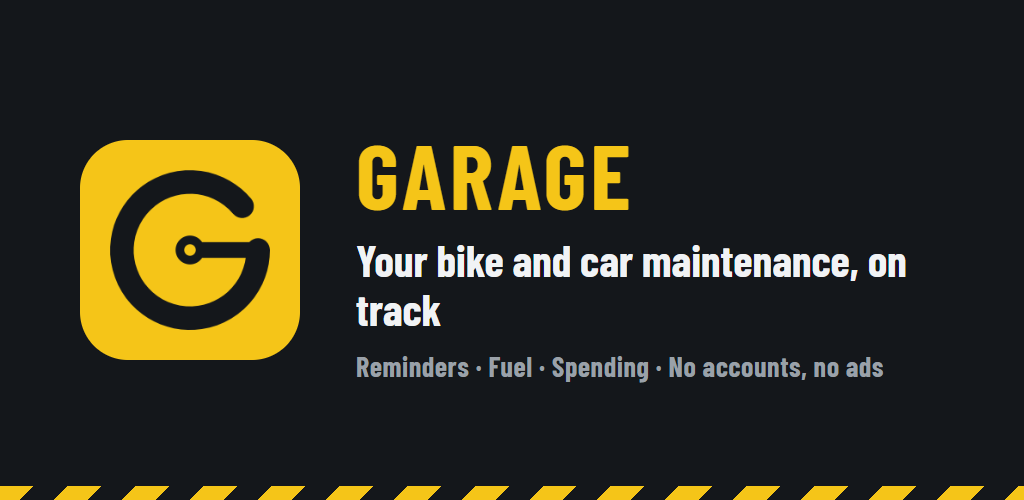
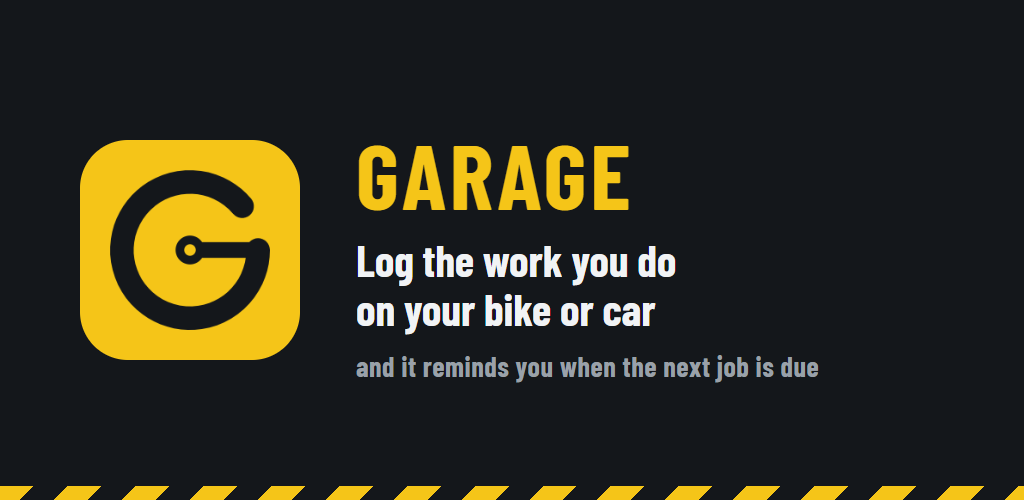
Textos de la ficha, la web y el README más naturales; "Opcional" a tamaño normal
- Descripciones de Google Play reescritas sin titulares con emoji ni frases de anuncio.
- README actualizado (estructura, Pro, Android, versiones) y en el mismo tono.
- Repostaje: el texto de ayuda de Litros e Importe con la letra normal, no con la cifra grande.

Changed region(s): [[0.3438, 0.48, 0.9062, 0.66], [0.3438, 0.69, 0.875, 0.78]]

diff --git a/docs/index.html b/docs/index.html
@@ -4,7 +4,7 @@
   <meta charset="utf-8" />
   <meta name="viewport" content="width=device-width, initial-scale=1" />
   <title>Garage</title>
-  <meta name="description" content="Garage: lleva el mantenimiento de tu moto y tu coche. Avisos, consumo y gastos, sin cuentas ni anuncios." />
+  <meta name="description" content="Garage: un cuaderno de mantenimiento para la moto o el coche que te avisa de lo siguiente que toca." />
   <link rel="icon" href="icon.png" />
   <link rel="stylesheet" href="style.css" />
 </head>
@@ -13,10 +13,10 @@
     <section class="hero">
       <img src="icon.png" alt="Logo de Garage" width="112" height="112" />
       <h1>Garage</h1>
-      <p>Lleva el mantenimiento de tu moto y tu coche: qué toca y cuándo, consumo y gastos.<br />
-        Sin cuentas, sin anuncios, tus datos solo en tu móvil.</p>
-      <p lang="en" class="sub">Keep track of your bike and car maintenance: what's due and when, fuel and
-        spending. No accounts, no ads, your data stays on your phone.</p>
+      <p>Un cuaderno de mantenimiento para la moto o el coche. Apuntas lo que le haces y te avisa de lo
+        siguiente que toca. No hace falta cuenta y los datos se quedan en tu móvil.</p>
+      <p lang="en" class="sub">A service log for your motorbike or car. Note down the work you do and it reminds
+        you when the next job is due. No account needed, and your data stays on your phone.</p>
     </section>
     <p class="links">
       <a href="privacy.html">Política de privacidad · Privacy policy</a>

diff --git a/src/views/FuelPage.vue b/src/views/FuelPage.vue
@@ -229,6 +229,12 @@ function leave(id: string, message: string) {
   font-size: 22px;
   font-weight: 700;
 }
+/* El texto de ayuda ("Opcional", "0,0") con la letra normal: la cifra grande solo para lo que se escribe. */
+.big-input :deep(input::placeholder) {
+  font-family: var(--g-font-body);
+  font-size: 16px;
+  font-weight: 400;
+}
 .flex {
   flex: 1;
 }

diff --git a/README.md b/README.md
@@ -1,100 +1,109 @@
-# 🏍 Garage
+# Garage
 
-App multiplataforma para llevar el mantenimiento de motos y vehículos personales.
+App para llevar el mantenimiento de motos y coches. Apuntas lo que le haces a cada vehículo (aceite, cadena,
+frenos, ITV…) y la app calcula cuándo toca lo siguiente, por kilómetros, por tiempo o por lo que llegue antes,
+y te avisa. También lleva los repostajes, el consumo y lo que te gastas.
 
-- **¿Cuándo le hice esto?** Historial de cada mantenimiento.
-- **¿A cuántos km toca ahora?** Motor de urgencias en km *y* en días.
-- **Offline-first.** Todo en SQLite local; la sync en la nube llega en la fase 0.3.
-- **España + motos.** ITV según tipo de vehículo, intervalos pensados para motos.
+Funciona sin conexión y sin cuenta: los datos se guardan en el dispositivo (SQLite). Está pensada para España
+(intervalos de ITV por tipo de vehículo, seguro e impuesto de circulación) y en español e inglés.
 
-**Stack:** Vue 3 + TypeScript · Ionic Vue · Capacitor · SQLite (`@capacitor-community/sqlite`, `jeep-sqlite` en web) · Pinia · date-fns · uuid v7 · Zod · Vitest.
+La versión gratuita cubre hasta dos vehículos; Garage Pro, un pago único en Google Play, añade la pestaña de
+gastos, vehículos sin límite, los temas de color y el widget.
+
+Stack: Vue 3 + TypeScript, Ionic Vue, Capacitor 8, SQLite (`@capacitor-community/sqlite`; `jeep-sqlite` en la
+web), Pinia, vue-i18n, date-fns, Zod, Vitest y Playwright.
 
 ## Empezar
 
 ```bash
-npm install        # copia también sql-wasm.wasm a public/assets (postinstall)
+npm install        # también copia sql-wasm.wasm a public/assets (postinstall)
 npm run dev        # http://localhost:5173
-npm test           # Vitest: motor de urgencias, ITV, formato y repositorio contra SQLite real
-npm run test:e2e   # Playwright: la app real manejada como un usuario (móvil y escritorio; usa tu Chrome)
+npm test           # Vitest: urgencias, ITV, formato, consumo y repositorio contra SQLite de verdad
+npm run test:e2e   # Playwright: la app manejada como un usuario, en móvil y escritorio (usa tu Chrome)
 npm run build      # vue-tsc + vite build
 ```
 
-En **Ajustes → Cargar datos de ejemplo** tienes 3 vehículos (CBR600RR, Scrambler y Corolla) para ver la app con datos.
+En **Ajustes → Cargar datos de ejemplo** hay tres vehículos (CBR600RR, Scrambler y Corolla) con historial y
+repostajes, para ver la app con datos. En desarrollo, la pantalla de Garage Pro tiene un botón que lo activa sin
+pagar.
 
 ### Android
 
-Requisitos: **Node ≥ 22** (CLI de Capacitor 8), Android Studio con el SDK y un **JDK 21** instalado.
-No hace falta que `JAVA_HOME` apunte a él: `android/gradle/gradle-daemon-jvm.properties` le dice a Gradle
-que busque un JDK 21 entre los instalados (así otros proyectos pueden seguir con el JDK que usen).
+Hace falta **Node ≥ 22** (CLI de Capacitor 8), Android Studio con el SDK y un **JDK 21**. No hace falta que
+`JAVA_HOME` apunte a él: `android/gradle/gradle-daemon-jvm.properties` le dice a Gradle que lo busque entre los
+JDK instalados, así otros proyectos pueden seguir con el suyo.
 
 ```bash
 npm run cap:sync          # compila la web y la copia a android/
 npx cap open android      # y ▶ en Android Studio (móvil por USB o emulador)
 ```
 
-Para generar un APK instalable de la versión actual: `npm run apk` → `releases/garage-<versión>-debug.apk`
-(de depuración: para tu móvil o para probadores).
+- `npm run apk` genera un APK de depuración en `releases/garage-<versión>-debug.apk`, para instalarlo en tu
+  móvil o pasárselo a quien vaya a probar.
+- `npm run aab` genera el paquete firmado para Google Play en `releases/garage-<versión>.aab`. Necesita la
+  clave de subida; los pasos de la publicación están en [store/PUBLICAR.md](store/PUBLICAR.md).
+- `npm run store:shots` vuelve a sacar las capturas de la ficha de la tienda.
 
-Para Google Play: `npm run aab` → `releases/garage-<versión>.aab`, firmado con la clave de subida (ver
-[store/PUBLICAR.md](store/PUBLICAR.md)). Las capturas de la ficha se regeneran con `npm run store:shots`.
+Con un APK de depuración se puede inspeccionar la app desde `chrome://inspect` en el Chrome del ordenador.
 
-Desde terminal: `npx cap run android` (compila, instala y abre en el móvil o emulador que elijas), o
-`cd android && ./gradlew assembleDebug` para generar `android/app/build/outputs/apk/debug/app-debug.apk`. Con un APK de depuración,
-`chrome://inspect` en el Chrome del ordenador permite inspeccionar la app.
-
-`android/` está versionada: lleva la configuración nativa que no regenera Capacitor
-(`<queries>` de la cámara en el manifiesto, icono de los avisos `ic_stat_garage`).
+`android/` está en el repositorio porque lleva cosas que Capacitor no regenera: el widget, los plugins de
+compra y del widget, la cámara en `<queries>`, el icono de los avisos y la firma de publicación.
 
 ## Estructura
 
 ```
 src/
-  domain/        Lógica pura, sin Vue ni BD (100 % testeable)
-    reminders.ts   Motor de urgencias: vencido / pronto / al día / sin historial
-    itv.ts         Intervalos de ITV en España por tipo de vehículo
-    tasks.ts       Catálogo de tareas e intervalos por defecto por tipo
-    schemas.ts     Validación de formularios con Zod
-    format.ts      Textos y formato es-ES ("1.150 km · Toca a 24.200 km…")
-  db/
-    sql.ts         Interfaz mínima de BD (nativo, web y tests la implementan)
-    migrations.ts  Esquema versionado
-    repository.ts  Acceso a datos (borrado lógico, transacciones)
-    capacitor.ts   Adaptador @capacitor-community/sqlite (+ jeep-sqlite en web)
-    demo.ts        Datos de ejemplo
-  stores/garage.ts Estado (Pinia) y urgencias derivadas
-  views/           Garage, Detalle, Registro rápido, Recordatorios, Plan, Ajustes
-  theme/           Estilo "Taller + Cuadro": 5 temas de color × claro/oscuro (palettes.css)
-tests/             Vitest (sql.js en memoria para el repositorio)
+  domain/          Lógica sin Vue ni base de datos (todo con tests)
+    reminders.ts     Qué toca: vencido / pronto / pospuesto / al día / sin historial
+    itv.ts           Intervalos de la ITV en España por tipo de vehículo
+    tasks.ts         Catálogo de tareas e intervalos por tipo de vehículo
+    fuel.ts          Repostajes y consumo de lleno a lleno
+    stats.ts         Gastos por mes y año, coste por km
+    alerts.ts        Plan de avisos locales
+    format.ts        Textos, cifras y fechas en el idioma de la app
+  db/              Esquema con migraciones, repositorio y adaptadores de SQLite
+  i18n/            Textos en español (es.ts) e inglés (en.ts)
+  lib/             Plataforma: avisos, compra de Garage Pro, widget, archivos
+  stores/garage.ts Estado (Pinia)
+  views/           Pantallas
+  theme/           Los 5 temas de color, en claro y oscuro
+android/           Proyecto nativo (widget y compras en app/src/main/java)
+docs/              Web y política de privacidad (GitHub Pages)
+store/             Ficha de Google Play, capturas y guía de publicación
+tests/  e2e/       Vitest y Playwright
 ```
 
 ## Decisiones
 
 | Decisión | Por qué |
 |---|---|
-| UUID v7 generados en cliente | Offline y distribuido; ordenables por tiempo |
-| Borrado lógico (`deleted_at`) | Nunca se pierden datos; necesario para la sync |
-| Dinero en céntimos (`INTEGER`) + `currency` | Sin errores de coma flotante |
-| Km actuales = lectura máxima | Cada registro con km añade una lectura en `odometer_readings` |
-| "Pronto" = 20 % del intervalo (máx. 1.000 km / 30 días) | Engrase cada 500 km avisa a 100 km; aceite cada 6.000 km, a 1.000 km |
-| Vencido siempre en rojo | En el mockup un +50 km salía naranja; aquí cualquier vencido es rojo |
-| ITV sin historial en vehículo antiguo = "sin historial" | No dar por vencida una ITV que seguramente está pasada |
-| `sql.js` fijado a **1.11.0** | Debe coincidir con la versión que `jeep-sqlite@2.8.0` lleva empaquetada; si no, el `.wasm` no carga |
-| Ionic en modo `ios` en todas las plataformas | Estética Sesame homogénea |
-| Temas = paletas de tokens (`data-palette` en `<html>`) | Cambiar de tema no toca componentes; cada tema define claro y oscuro |
-| Acento de relleno ≠ acento de texto | Amarillo, cian o rosa no se leen sobre blanco: en claro, el texto usa una versión más oscura |
-| Cuadro de instrumentos siempre oscuro | En modo claro sigue siendo un panel incrustado: el acento luce igual |
-| Fuentes locales (`@fontsource`) | Offline-first: sin depender de Google Fonts |
+| UUID v7 generados en el dispositivo | Funciona sin conexión y se ordenan por fecha |
+| Borrado lógico (`deleted_at`) | Al importar una copia, lo borrado sigue borrado |
+| Dinero en céntimos y litros en centilitros, enteros | Sin errores de coma flotante |
+| Km actuales = la lectura más alta | Cada registro o repostaje con km añade una lectura a `odometer_readings` |
+| "Pronto" = el último 20 % del intervalo (como mucho 1.000 km / 30 días) | El engrase cada 500 km avisa a los 100; el aceite cada 6.000, a los 1.000 |
+| ITV sin historial en un vehículo antiguo = "sin historial" | Mejor no dar por vencida una ITV que seguramente está pasada |
+| Pit bike y kart por horas de motor | Se guardan en los mismos campos que los km; solo cambia cómo se muestran |
+| `sql.js` fijado a **1.11.0** | Tiene que coincidir con la que lleva `jeep-sqlite@2.8.0`; si no, el `.wasm` no carga |
+| Ionic en modo `ios` en todas las plataformas | El mismo aspecto en Android, iPhone y web |
+| Temas como paletas de variables (`data-palette` en `<html>`) | Cambiar de tema no toca los componentes |
+| Acento de relleno distinto del acento de texto | El amarillo, el cian o el rosa no se leen sobre blanco |
+| Cuadro de instrumentos siempre oscuro | También en modo claro, como un panel |
+| Fuentes incluidas en la app (`@fontsource`) | Sin depender de Google Fonts ni de la conexión |
+| Compra de Pro sin servidor | La valida Google Play y se vuelve a consultar al abrir la app |
 
-## Roadmap
+## Versiones
 
-Detalle de cada versión en [CHANGELOG.md](CHANGELOG.md). La versión vive en `package.json` (Android la toma de ahí).
+El detalle está en [CHANGELOG.md](CHANGELOG.md). La versión sale de `package.json`, y Android la toma de ahí.
 
-- [x] **0.1 MVP local:** vehículos, odómetro, registros, motor de urgencias + ITV, timeline, registro rápido, plan de mantenimiento, modo oscuro, tests
-- [x] **0.2:** estilo Taller + Cuadro con 5 temas, escritorio, foto del vehículo, corregir registros y km, exportar/importar, avisos locales y ritmo de km, tareas personalizadas, app Android con logo
-- [x] **0.3:** seguro e impuesto como vencimientos, Google Calendar, tests de interfaz
-- [x] **0.4:** posponer avisos; repostajes, consumo y estadísticas de gasto; más tareas propias de moto, con un
-  plan de mantenimiento y un registro rápido más manejables; kart y pitbike (horas de motor)
-- [x] **0.5:** widget de Android, traducción al inglés
-- [ ] **1.0:** Garage Pro (pago único de 1,99 €), AAB firmado, privacidad y ficha listos; falta la prueba cerrada
-  y la publicación en Google Play (pasos en [store/PUBLICAR.md](store/PUBLICAR.md))
-- [ ] **Más adelante:** cuenta con Google y sincronización entre dispositivos, iOS
+- [x] **0.1:** vehículos, km, registros, urgencias e ITV, registro rápido, plan de mantenimiento
+- [x] **0.2:** estilo "Taller + Cuadro" con 5 temas, escritorio, foto del vehículo, corregir registros y km,
+  copias de seguridad, avisos, tareas propias, app de Android
+- [x] **0.3:** seguro e impuesto, Google Calendar, tests de interfaz
+- [x] **0.4:** posponer avisos, repostajes y gastos, más tareas de moto, kart y pit bike
+- [x] **0.5:** widget de Android e inglés
+- [ ] **1.0:** Garage Pro y todo lo necesario para Google Play. Falta la prueba cerrada y publicarla
+  ([store/PUBLICAR.md](store/PUBLICAR.md))
+- [ ] **Más adelante:** cuenta de Google y sincronización entre dispositivos, iOS
+
+Hecha por Orbita Labs.

diff --git a/store/listing.md b/store/listing.md
@@ -15,39 +15,29 @@ Límites de Play: nombre 30 caracteres, descripción breve 80, descripción comp
 
 **Nombre** (22): Garage · Mantenimiento
 
-**Descripción breve** (71): Lleva el mantenimiento de tu moto y tu coche: avisos, consumo y gastos.
+**Descripción breve** (78): Apunta lo que le haces a tu moto o tu coche y te avisa de lo que toca después.
 
 **Descripción completa:**
 
-Garage te dice qué le toca a tu moto o a tu coche y cuándo, antes de que se te pase.
+Garage es un cuaderno de mantenimiento para la moto o el coche. Apuntas lo que le haces y la app lleva la cuenta de lo que viene después: el aceite a los 6.000 km o al año, el engrase de cadena cada 500 km, la ITV según la fecha de matriculación, el seguro cuando vence…
 
-🔧 QUÉ TOCA Y CUÁNDO
-Aceite, filtros, cadena, frenos, neumáticos, ITV, seguro, impuesto… Cada tarea con su intervalo por kilómetros o por tiempo: lo que llegue antes manda. Garage calcula tu ritmo de uso y te avisa de lo que se acerca.
+Cada tarea tiene un intervalo en kilómetros, en tiempo o en las dos cosas, y cuenta lo que llegue antes. Los intervalos vienen ya puestos según el tipo de vehículo, pero puedes cambiarlos y añadir tareas que no estén en la lista.
 
-🔔 AVISOS
-Te avisa unos días antes de cada mantenimiento, el día que toca y de lo que se ha quedado vencido. ¿No te viene bien ahora? Pospónlo una semana, un mes o unos kilómetros.
+Con los kilómetros que vas apuntando, Garage calcula cuánto usas el vehículo y te avisa con tiempo. Si algo se queda sin hacer, te lo recuerda una vez a la semana, no todos los días. Y si sabes que no vas a poder hasta dentro de un mes, lo pospones.
 
-⚡ REGISTRO RÁPIDO
-Apunta lo que has hecho en segundos: kilómetros, tareas, coste y notas. El historial de cada vehículo queda como un libro de mantenimiento.
+También puedes anotar los repostajes. Si llenas el depósito cada vez, calcula el consumo real entre un llenado y el siguiente.
 
-⛽ REPOSTAJES Y CONSUMO
-Anota tus repostajes y Garage calcula el consumo real de lleno a lleno.
+Vale para motos, ciclomotores, scooters, coches y furgonetas. Las pit bikes y los karts van por horas de motor en lugar de kilómetros.
 
-🏍 PARA CADA VEHÍCULO
-Motos, ciclomotores y scooters, coches, furgonetas, pit bikes y karts (estos últimos, por horas de motor). Cada uno con sus tareas propias, y puedes crear las tuyas.
+No hace falta crear una cuenta y no tiene anuncios. Los datos se guardan en el móvil; desde Ajustes puedes exportar una copia y recuperarla si cambias de teléfono.
 
-🔒 TUS DATOS SON TUYOS
-Sin cuentas, sin anuncios y sin conexión: todo se guarda solo en tu móvil. Exporta una copia cuando quieras para no perder nada al cambiar de teléfono.
+Garage Pro es un pago único (no una suscripción) y añade:
+- La pestaña de gastos: lo que llevas gastado por mes y por año, el coste por kilómetro y el consumo medio.
+- Más de dos vehículos.
+- Cuatro temas de color más.
+- Un widget para la pantalla de inicio.
 
-⭐ GARAGE PRO (pago único, sin suscripción)
-• Gastos: cuánto gastas al mes y al año, coste por kilómetro y consumo medio.
-• Vehículos sin límite (la versión gratuita llega hasta 2).
-• Temas de color: Británico, Petróleo, Nocturno y Neón, en claro y oscuro.
-• Widget de escritorio con lo que toca y el registro rápido.
-
-Disponible en español e inglés.
-
-Hecho por Orbita Labs.
+La app está en español y en inglés. Hecha por Orbita Labs.
 
 ---
 
@@ -55,36 +45,26 @@ Hecho por Orbita Labs.
 
 **Name** (27): Garage · Bike & Car Service
 
-**Short description** (78): Track your bike and car maintenance: reminders, fuel consumption and spending.
+**Short description** (78): Log what you do to your bike or car and get reminded when the next job is due.
 
 **Full description:**
 
-Garage tells you what your bike or car needs and when, before it slips your mind.
+Garage is a service log for your motorbike or car. You note down the work you do and it keeps track of what comes next: an oil change at 6,000 km or once a year, chain lube every 500 km, the insurance renewal date, and so on.
 
-🔧 WHAT'S DUE AND WHEN
-Oil, filters, chain, brakes, tyres, inspection, insurance, road tax… Each task has its own interval by distance or time: whichever comes first wins. Garage learns how much you ride or drive and warns you about what's coming up.
+Every task has an interval in kilometres, in time, or both, and whichever comes first counts. Intervals are filled in for each type of vehicle, but you can change them and add tasks that aren't on the list.
 
-🔔 REMINDERS
-Get notified a few days before each service, on the day it's due and about anything overdue. Not a good time? Snooze it for a week, a month or a few hundred km.
+From the mileage you log, Garage works out how much you use the vehicle and reminds you in good time. If something is overdue you get a reminder once a week rather than every day, and if you know it'll have to wait a month, you can snooze it.
 
-⚡ QUICK LOG
-Log what you did in seconds: mileage, tasks, cost and notes. Each vehicle's history becomes its service book.
+You can log fill-ups too. Fill the tank each time and it works out your actual fuel consumption between fills.
 
-⛽ FILL-UPS AND CONSUMPTION
-Log your fill-ups and Garage works out your real fuel consumption from full tank to full tank.
+It works for motorbikes, mopeds, scooters, cars and vans. Pit bikes and karts are tracked by engine hours instead of distance.
 
-🏍 FOR EVERY VEHICLE
-Motorbikes, mopeds and scooters, cars, vans, pit bikes and karts (the last two by engine hours). Each one with its own tasks, plus any you create.
+There's no account to create and no ads. Your data is stored on the phone, and you can export a backup from Settings to take it to a new one.
 
-🔒 YOUR DATA IS YOURS
-No accounts, no ads, works offline: everything stays on your phone. Export a backup whenever you like so you never lose anything when you change phones.
+Garage Pro is a one-off purchase, not a subscription. It adds:
+- A spending tab: what you've spent by month and year, cost per km and average consumption.
+- More than two vehicles.
+- Four extra colour themes.
+- A home screen widget.
 
-⭐ GARAGE PRO (one-time payment, no subscription)
-• Spending: how much you spend each month and year, cost per km and average consumption.
-• Unlimited vehicles (the free version covers up to 2).
-• Colour themes: British, Petrol, Night and Neon, light and dark.
-• Home screen widget with what's due and a quick log button.
-
-Available in English and Spanish.
-
-Made by Orbita Labs.
+Available in English and Spanish. Made by Orbita Labs.
